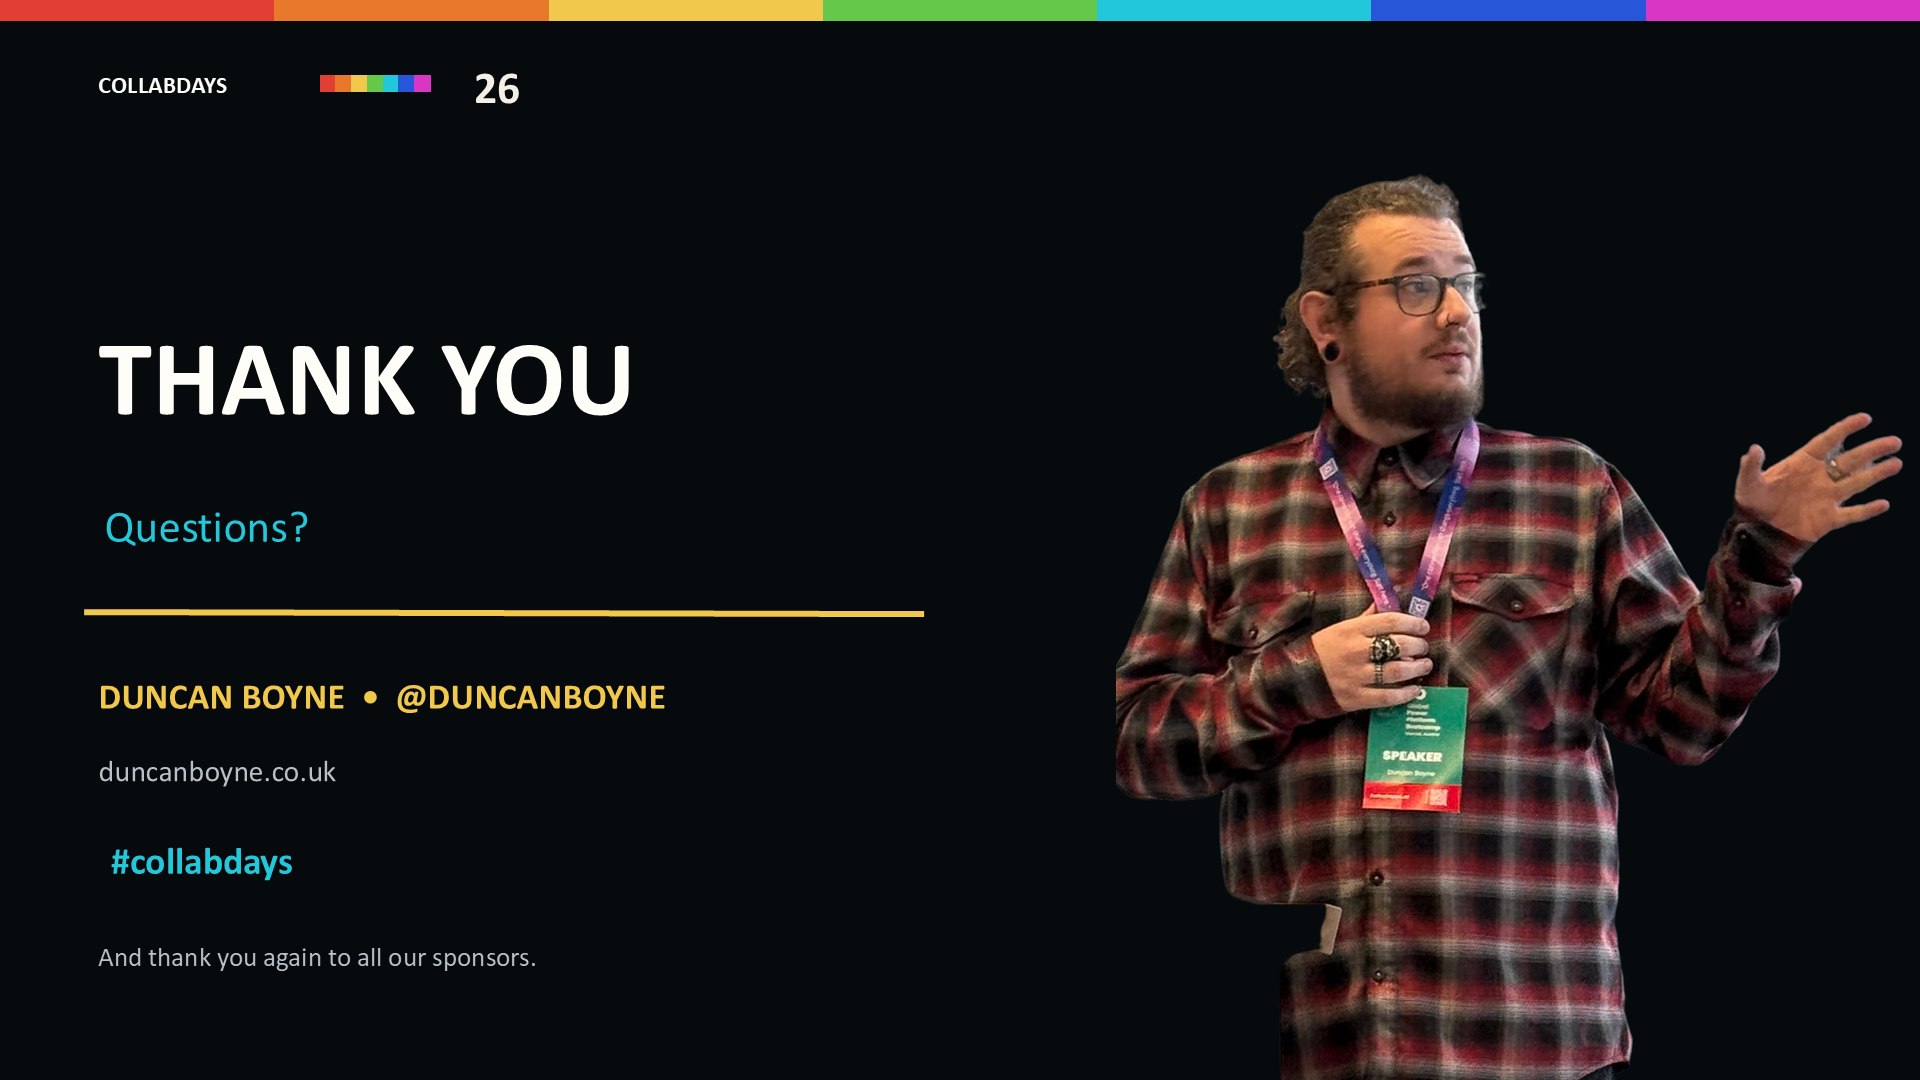
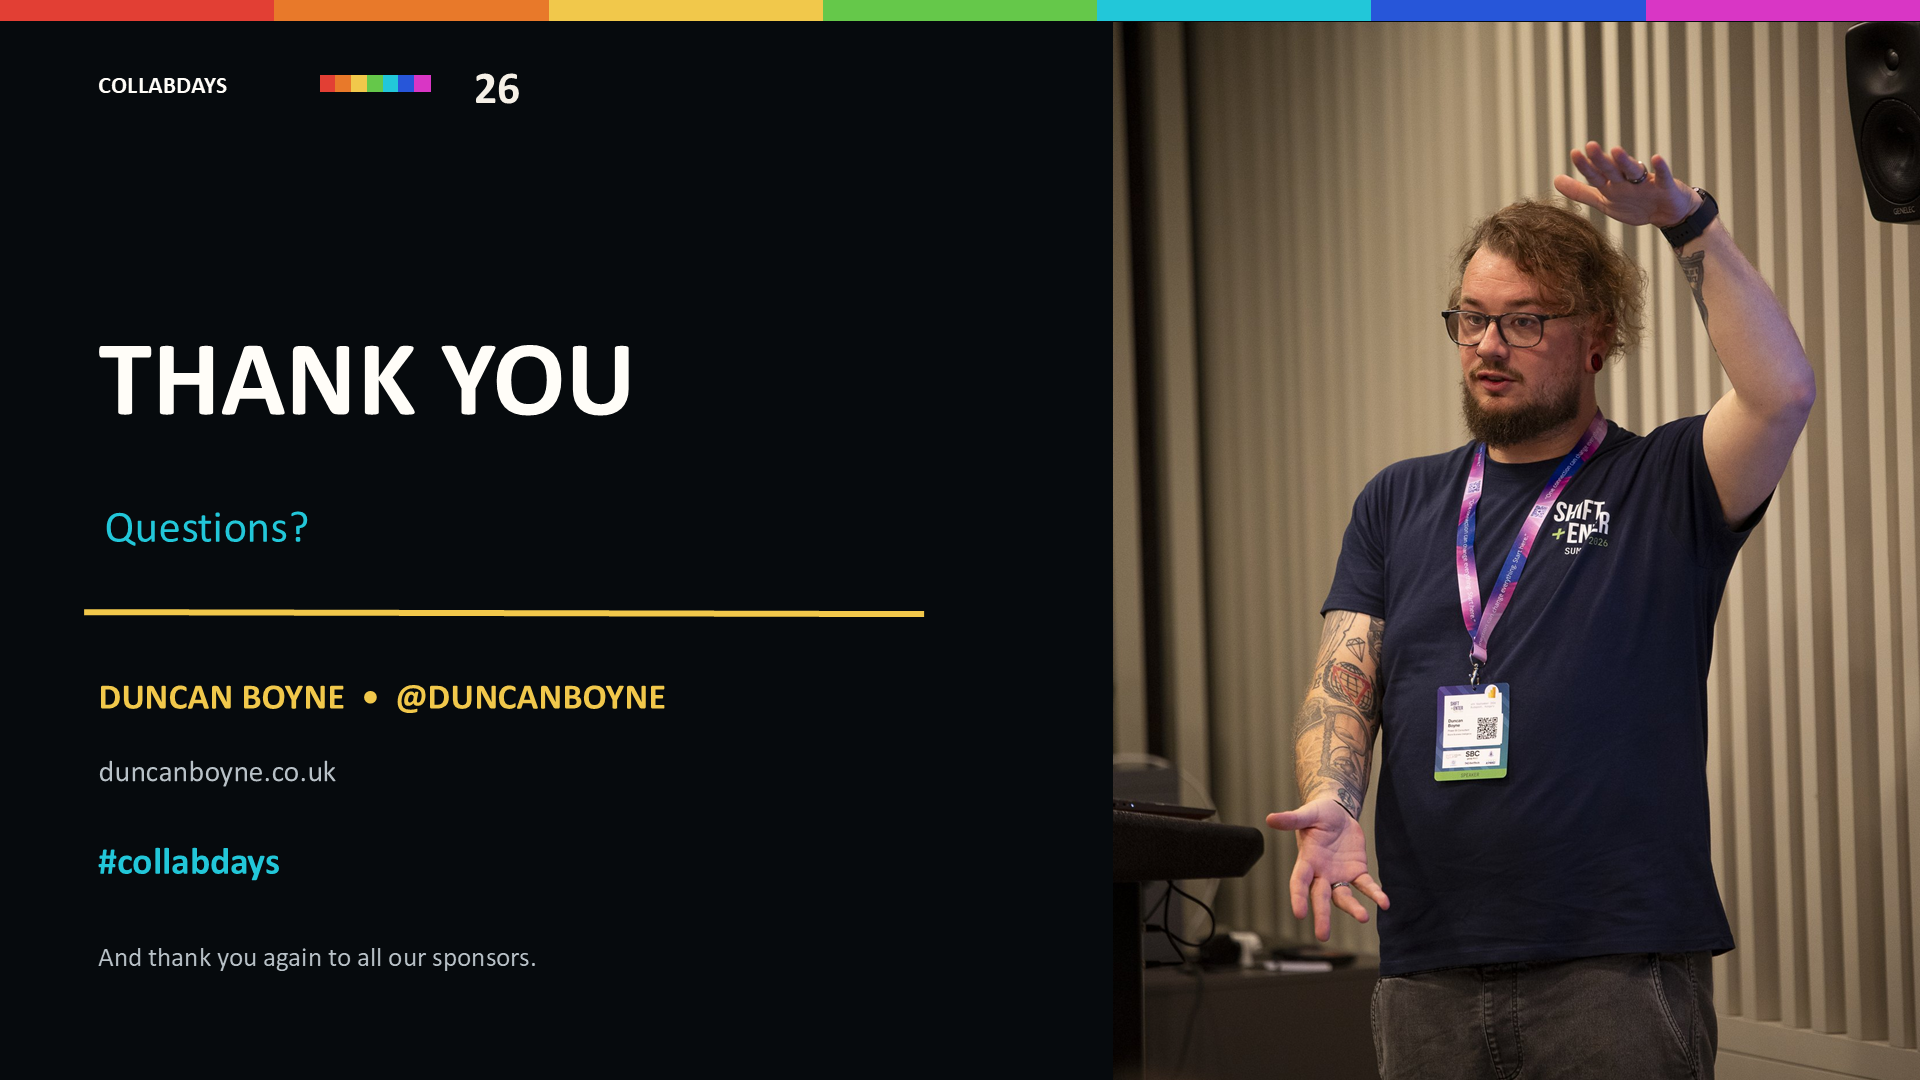
Use the Shift+Enter speaking photo on both closing slides
CollabDays: a full-height photo panel down the right edge replaces the
old cutout. Event-neutral deck: same photo on the thank-you slide.

diff --git a/decks/ai-for-power-bi-professionals/slides.md b/decks/ai-for-power-bi-professionals/slides.md
@@ -302,7 +302,7 @@ Send this link as a follower message NOW from the Controls panel — the overlay
 <p>Every prompt from today: <strong>github.com/DuncanBoyne/AI-BI</strong></p>
 <p style="font-size:0.8em">Please rate the session — 30 seconds, it genuinely helps.</p>
 </div>
-<img src="https://raw.githubusercontent.com/DuncanBoyne/speakingdecks/main/decks/ai-for-power-bi-professionals/img/duncan-speaking.png" alt="Duncan Boyne speaking" style="height:520px; margin:0; border:0; box-shadow:none; background:none">
+<img src="https://raw.githubusercontent.com/DuncanBoyne/speakingdecks/main/decks/ai-for-power-bi-professionals/img/duncan-shiftenter.jpg" alt="Duncan Boyne speaking at Shift+Enter 2026" style="height:540px; margin:0; border:0; border-radius:6px; box-shadow:none">
 </div>
 
 Notes:
